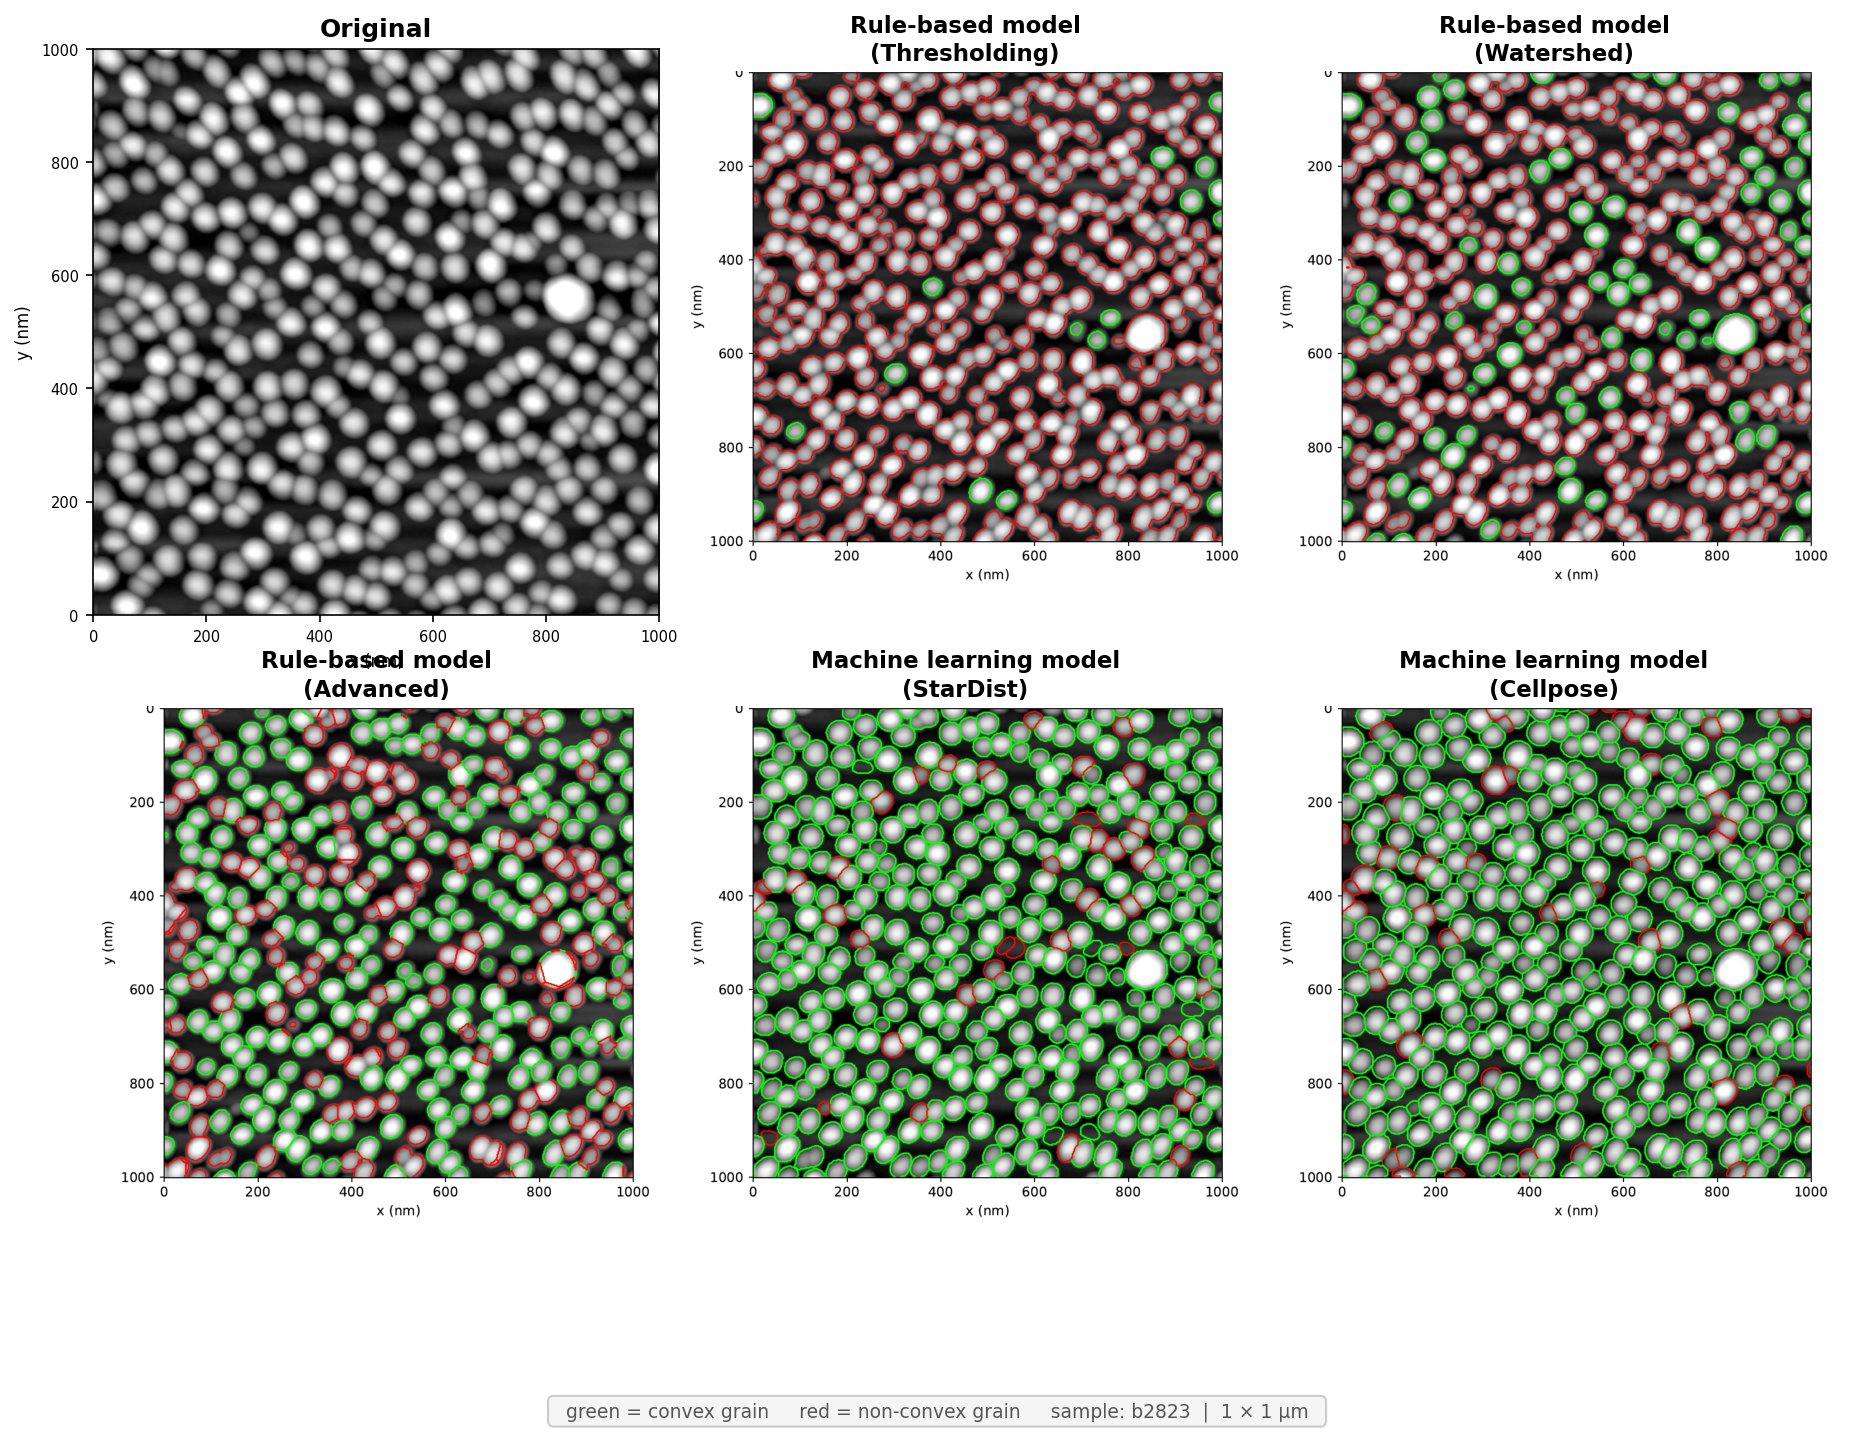
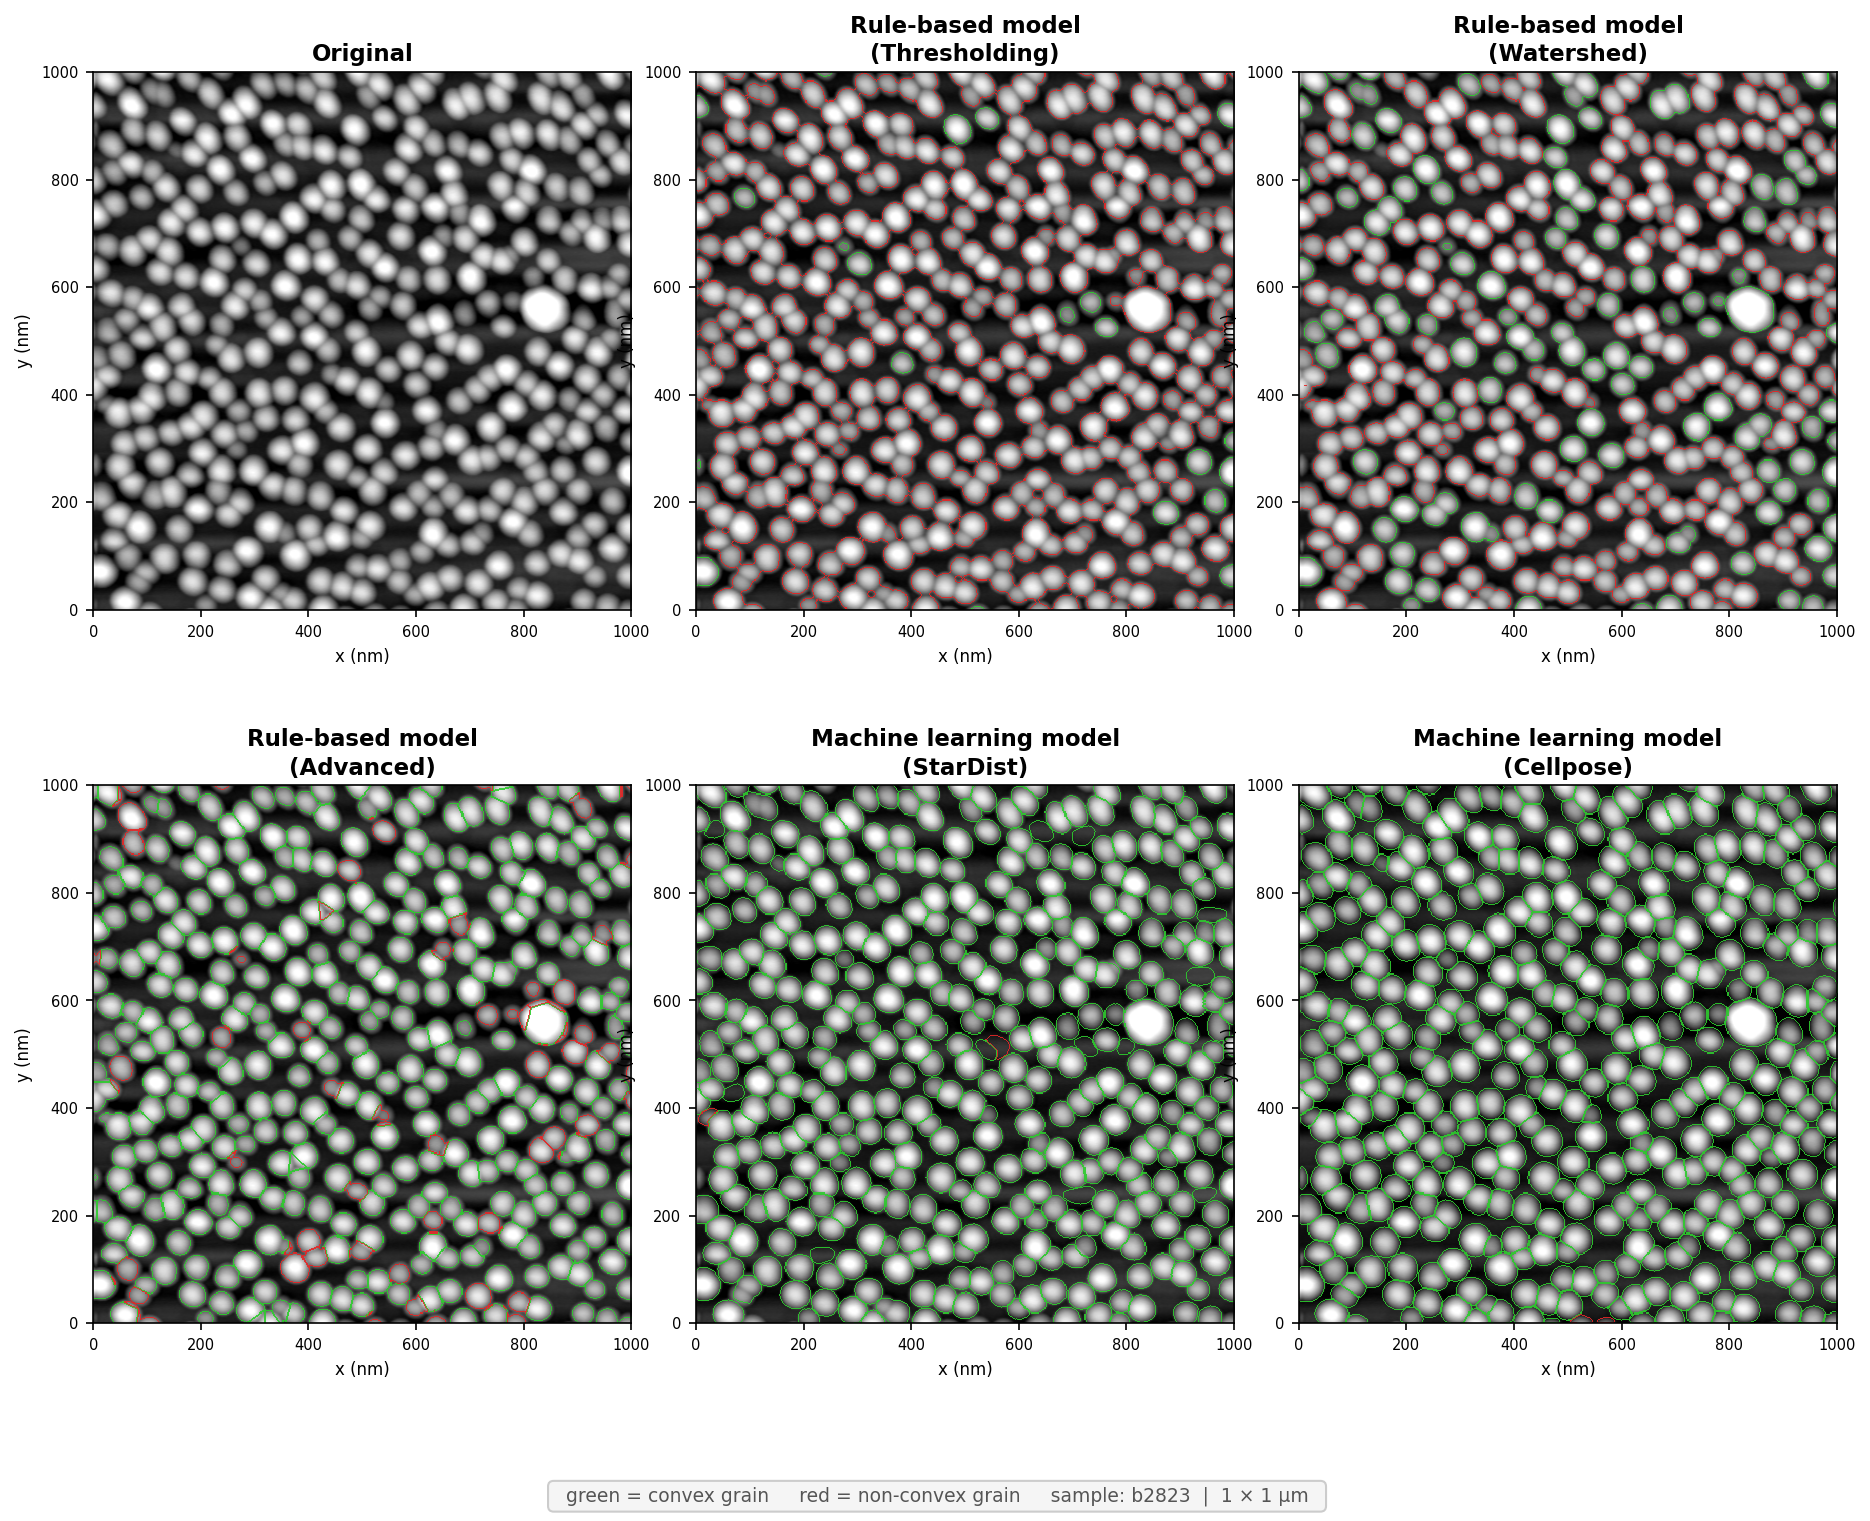
docs: regenerate demo via full qdseg pipeline, uniform panel sizes

diff --git a/make_demo_image.py b/make_demo_image.py
@@ -1,41 +1,38 @@
 """
 Generate docs/demo.png — 6-panel segmentation comparison for the README.
 
-Panels  : Original | Rule-based ×3 | ML ×2
-Layout  : 2 rows × 3 cols
-Sources : b2823_x-2_y-2_1um.xqd  +  *_convex.pdf (5 files)
+All segmentation is computed fresh via qdseg (no pre-rendered PDFs).
+
+Panels:
+  [0] Original (corrected height map)
+  [1] Rule-based model (Thresholding)
+  [2] Rule-based model (Watershed)
+  [3] Rule-based model (Advanced)
+  [4] Machine learning model (StarDist)
+  [5] Machine learning model (Cellpose)
 """
 
-import subprocess, tempfile, shutil
 from pathlib import Path
-
 import numpy as np
 import matplotlib
 matplotlib.use("Agg")
 import matplotlib.pyplot as plt
-import matplotlib.image as mpimg
+from matplotlib.colors import Normalize
+from skimage.segmentation import find_boundaries
 
-from qdseg import AFMData
+from qdseg import (
+    AFMData,
+    segment_thresholding,
+    segment_watershed,
+    segment_rule_based,
+    calculate_grain_statistics,
+)
 
-# ── Paths ─────────────────────────────────────────────────────────────────────
+# ── 0. Load & correct XQD ────────────────────────────────────────────────────
 
 XQD = Path("/Users/jkkwoen/data_raw/afm_nanonavi/2017/20170209/b2823_x-2_y-2_1um.xqd")
 
-PDF_BASE = Path(
-    "/Users/jkkwoen/1_work/14_code/141_script/"
-    "afm_pl_relation/output/afm_export"
-)
-
-PDF_PANELS = [
-    ("Rule-based model\n(Thresholding)",   PDF_BASE / "b2823_x-2_y-2_1um_thresholding_convex.pdf"),
-    ("Rule-based model\n(Watershed)",      PDF_BASE / "b2823_x-2_y-2_1um_watershed_convex.pdf"),
-    ("Rule-based model\n(Advanced)",       PDF_BASE / "b2823_x-2_y-2_1um_classical_convex.pdf"),
-    ("Machine learning model\n(StarDist)", PDF_BASE / "b2823_x-2_y-2_1um_stardist_convex.pdf"),
-    ("Machine learning model\n(Cellpose)", PDF_BASE / "b2823_x-2_y-2_1um_cellpose_convex.pdf"),
-]
-
-# ── 1. Original AFM image (corrected, no segmentation) ───────────────────────
-
+print("Loading XQD …")
 data = AFMData(str(XQD))
 data.first_correction().second_correction().third_correction()
 data.align_rows(method='median')
@@ -48,48 +45,98 @@ px_nm  = meta.get("pixel_nm", (1.0, 1.0))[0]
 scan   = height.shape[1] * px_nm
 extent = [0, scan, 0, scan]
 
-# ── 2. PDF → PNG (crop internal title) ───────────────────────────────────────
+# ── 1. Segmentation ───────────────────────────────────────────────────────────
 
-def pdf_to_img(pdf_path: Path, dpi: int = 180, crop_frac: float = 0.085) -> np.ndarray:
-    tmp = Path(tempfile.mkdtemp())
-    try:
-        subprocess.run(
-            ["pdftoppm", "-r", str(dpi), "-png", "-singlefile",
-             str(pdf_path), str(tmp / "out")],
-            check=True, capture_output=True,
-        )
-        img = mpimg.imread(str(tmp / "out.png"))
-        h = img.shape[0]
-        return img[int(h * crop_frac):, :]
-    finally:
-        shutil.rmtree(tmp, ignore_errors=True)
+print("Segmenting: thresholding …")
+labels_thresh = segment_thresholding(height, meta)
 
-print("Converting PDFs …")
-pdf_images = [(lbl, pdf_to_img(pdf)) for lbl, pdf in PDF_PANELS]
+print("Segmenting: watershed …")
+labels_ws = segment_watershed(height, meta)
 
-# ── 3. Figure: 2 rows × 3 cols ───────────────────────────────────────────────
+print("Segmenting: rule_based (advanced) …")
+labels_rb = segment_rule_based(height, meta)
 
-fig, axes = plt.subplots(2, 3, figsize=(15, 10.5), facecolor="white",
-                         gridspec_kw={"hspace": 0.10, "wspace": 0.04})
-fig.patch.set_facecolor("white")
+print("Segmenting: StarDist …")
+from qdseg.utils import setup_gpu_environment
+setup_gpu_environment()
+from stardist.models import StarDist2D
+from csbdeep.utils import normalize as sd_normalize
+sd_model = StarDist2D.from_pretrained("2D_versatile_fluo")
+img_norm = sd_normalize(height, 1, 99.8)
+labels_sd, _ = sd_model.predict_instances(img_norm, prob_thresh=0.5, nms_thresh=0.4)
+labels_sd = labels_sd.astype(np.int32)
 
-# Panel 0 — Original
-ax0 = axes.flat[0]
+print("Segmenting: Cellpose …")
+from qdseg.utils import get_torch_device
+from cellpose import models as cp_models
+device = get_torch_device(verbose=False)
+cp_model = cp_models.CellposeModel(
+    model_type="cyto3", gpu=device.type != "cpu", device=device
+)
+pmin, pmax = np.percentile(height, [1, 99.8])
+img_cp = np.clip((height - pmin) / (pmax - pmin + 1e-10), 0, 1) * 255
+result = cp_model.eval(img_cp.astype(np.float32), diameter=None,
+                       flow_threshold=0.4, cellprob_threshold=0.0)
+labels_cp = result[0].astype(np.int32)
+
+# ── 2. Solidity helper (green=convex, red=non-convex) ─────────────────────────
+
+from skimage.measure import regionprops
+
+def solidity_boundary_rgba(labels: np.ndarray,
+                            convex_color=(0.18, 0.80, 0.18),
+                            nonconvex_color=(0.90, 0.15, 0.15),
+                            alpha: float = 0.9) -> np.ndarray:
+    """Return RGBA overlay where grain boundaries are coloured by solidity."""
+    rgba = np.zeros((*labels.shape, 4), dtype=np.float32)
+    props = regionprops(labels)
+    solidity = {p.label: p.solidity for p in props}
+    bounds = find_boundaries(labels, mode="outer")
+    by, bx = np.where(bounds)
+    for y, x in zip(by, bx):
+        lbl = labels[y, x]
+        if lbl == 0:
+            # pick a neighbouring label
+            for dy, dx in [(-1,0),(1,0),(0,-1),(0,1)]:
+                ny, nx = y+dy, x+dx
+                if 0 <= ny < labels.shape[0] and 0 <= nx < labels.shape[1]:
+                    if labels[ny, nx] > 0:
+                        lbl = labels[ny, nx]
+                        break
+        sol = solidity.get(lbl, 1.0)
+        color = convex_color if sol >= 0.9 else nonconvex_color
+        rgba[y, x, :3] = color
+        rgba[y, x,  3] = alpha
+    return rgba
+
+# ── 3. Figure ─────────────────────────────────────────────────────────────────
+
+PANELS = [
+    ("Original",                          None),
+    ("Rule-based model\n(Thresholding)",   labels_thresh),
+    ("Rule-based model\n(Watershed)",      labels_ws),
+    ("Rule-based model\n(Advanced)",       labels_rb),
+    ("Machine learning model\n(StarDist)", labels_sd),
+    ("Machine learning model\n(Cellpose)", labels_cp),
+]
+
 vmin, vmax = np.percentile(height, [1, 99])
-ax0.imshow(height, cmap="gray", origin="lower", extent=extent,
-           vmin=vmin, vmax=vmax, interpolation="bilinear")
-ax0.set_title("Original", fontsize=12, fontweight="bold", pad=6)
-ax0.set_xlabel("x (nm)", fontsize=8)
-ax0.set_ylabel("y (nm)", fontsize=8)
-ax0.tick_params(labelsize=7)
+norm = Normalize(vmin=vmin, vmax=vmax)
 
-# Panels 1–5 — segmentation results
-for ax, (label, img) in zip(list(axes.flat)[1:], pdf_images):
-    ax.imshow(img)
-    ax.set_title(label, fontsize=11, fontweight="bold", pad=5, linespacing=1.3)
-    ax.axis("off")
+fig, axes = plt.subplots(2, 3, figsize=(15, 11.0), facecolor="white",
+                         gridspec_kw={"hspace": 0.28, "wspace": 0.12})
 
-# Legend (bottom of figure)
+for ax, (title, labels) in zip(axes.flat, PANELS):
+    ax.imshow(height, cmap="gray", origin="lower", extent=extent,
+              norm=norm, interpolation="bilinear")
+    if labels is not None:
+        overlay = solidity_boundary_rgba(labels)
+        ax.imshow(overlay, origin="lower", extent=extent, interpolation="none")
+    ax.set_title(title, fontsize=11, fontweight="bold", pad=5, linespacing=1.3)
+    ax.set_xlabel("x (nm)", fontsize=8)
+    ax.set_ylabel("y (nm)", fontsize=8)
+    ax.tick_params(labelsize=7)
+
 fig.text(
     0.5, 0.005,
     "  green = convex grain     red = non-convex grain     sample: b2823  |  1 × 1 µm  ",
@@ -100,4 +147,4 @@ fig.text(
 out = Path("docs/demo.png")
 out.parent.mkdir(parents=True, exist_ok=True)
 fig.savefig(out, dpi=150, bbox_inches="tight", facecolor="white")
-print(f"Saved → {out}")
+print(f"\nSaved → {out}")
